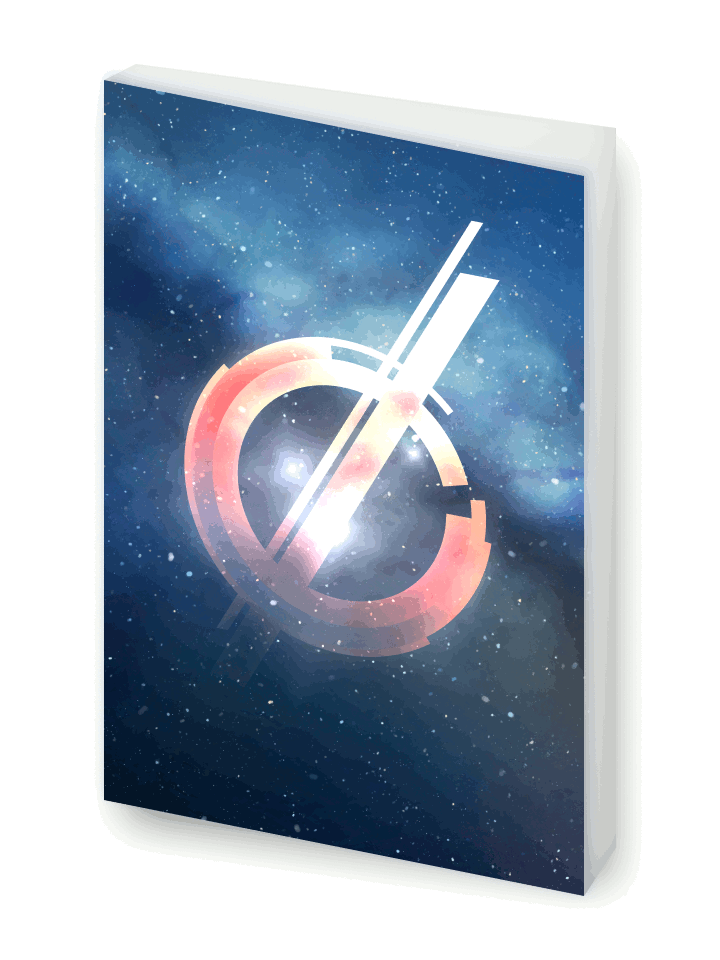
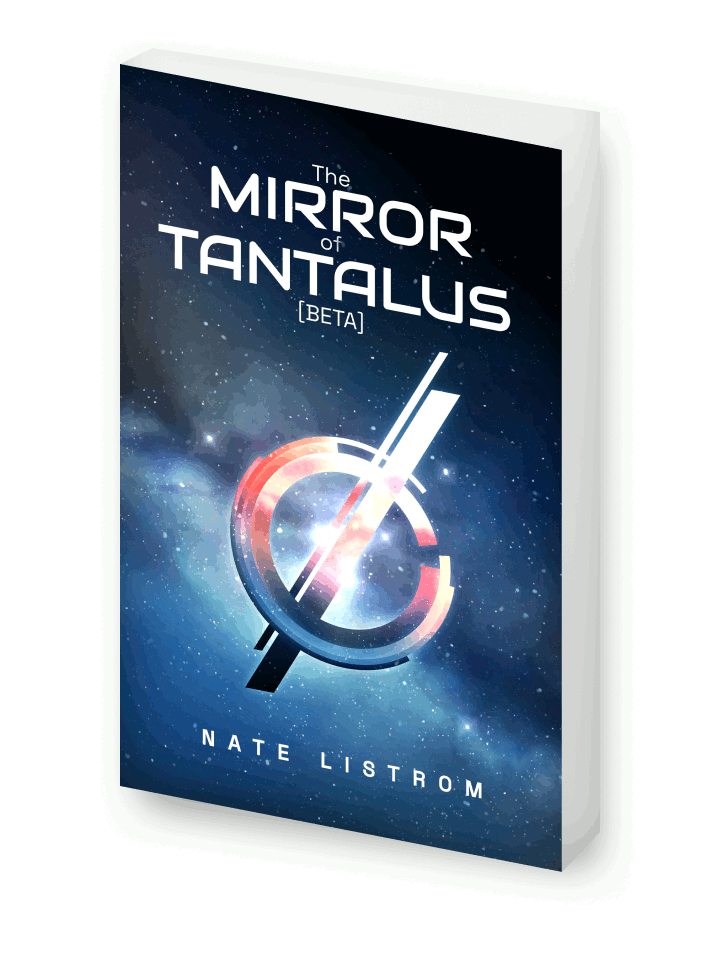
Add first post in Tantalus making of series

diff --git a/_posts/2024-11-05-tantalus-beginnings.md b/_posts/2024-11-05-tantalus-beginnings.md
@@ -1,0 +1,104 @@
+---
+layout: post
+title:  "Beginnings: The making of 'The Mirror of Tantalus' (part one)"
+description: "The story of how I conceived of the premise for my novelette, 'The Mirror of Tantalus' and how connecting with a coworker encouraged me to write the story"
+date:   2024-11-05 12:00:00 -0400
+image:  /assets/img/tantalus-book-cover.png
+tags: [The Mirror of Tantalus, Making of, Story]
+maturity: scribble
+reading_time: 6 min
+---
+
+<img src="/assets/img/tantalus-book-cover.png" alt="a book cover with a background of stars and a shining, geometric figure in the foreground" style="max-width:240px;">
+
+<p class="dropCap">I love listening to artists talk about how they developed their work. You can learn so much from the chronicle of the ups and downs, the false starts and dead-ends, the discoveries made along the way. So, here&rsquo;s the first note in a little <a href="/tag/the+mirror+of+tantalus">&ldquo;making of&rdquo; series</a> about the development of my novelette, <em><a href="/tantalus-mirror">The Mirror of Tantalus</a></em>.</p> 
+
+I hope this window into the process is useful to you, dear reader, as you work on your own projects.
+
+## An idea for an experiment (Dec 2020 - Apr 2023)
+
+_Tantalus_ started in December of 2020 as an idea for an experiment. 
+
+I'd been toying around with K. M. Weiland's claim that [the major beats of a plot mirror one another]({% post_url 2023-01-16-bracketing2 %}#chiasmus-around-the-midpoint) around the midpoint, and I wanted to see if I could demonstrate the theory by building a new story using that structure. 
+
+Normally, the resonance of major plot movements emerges organically and only becomes visible in hindsight. I wanted to flip that process and construct the plot with that resonance in mind from the start.
+
+My core premise was that I wanted the protagonist's own action in the climactic moment to be the thing that spurred her to set out on the journey in the first place. Somehow, she needed to give herself her own [call to adventure]({% post_url 2021-07-23-inciting-incident %}).
+
+<img src="/assets/img/tantalus-making-of-01-inception.png" alt="a screenshot of a note in WorkFlowy from Dec 2020 proposing a 'Tenet'-style palindrome" style="max-width:400px;">
+
+Once that constraint was in place, I knew I was working with a time travel story.
+
+At that point, I had only a vague notion of what the story would be. Mostly, it was just a sense of the feeling I wanted to convey, something having to do with loneliness, perhaps a bit of wistfulness, and an uncanny mystery in which things were happening that defied easy explanation.
+
+Space became the setting for the story almost from its inception. The time dilation effects from Christopher Nolan's _Interstellar_ had fascinated me when I saw the film, and I figured I could use gravity as a sort of pseudo-scientific explanation for the time travel elements in my own story. <sup class="aside">A</sup>
+
+<aside>A. When I began brainstorming <em>Tantalus</em>, I had already seen both <em>Interstellar</em> and <em>Tenet</em>. Although I can&rsquo;t compare my story to those in either scope or quality, I think it would be untrue to say that they had no influence. That said, I never intented my story to play in the same arena. <em>Tantalus</em> was always about doing a storytelling structure experiment. It just happened that those two stories had elements that I could draw from to achieve what I was trying to do.</aside>
+
+In order to connect the protagonist at the climax with her earlier self at the call to adventure, I came up with the notion that she would be sending messages back to her earlier self. In the first half of the story, she would be _discovering_ the messages and then, once she reversed directions, she'd be _writing_ them.
+
+This created some interesting possibilities. I had a picture in my mind of handwritten letters sort of "un-writing" themselves. (The disappearing people in the photos in _Back to The Future_ come to mind.)
+
+Through most of the next two years, the story sat percolating on the back burner. This happens to many of my story ideas. They stay in this mode for a while, marinating. When a thought comes to me, I'll write it down, adding it to an ever-growing pile of notes. Then, eventually, something happens that motivates me to take all those notes and start shaping them into a story.
+
+## First draft (Mar - Apr 2023)
+
+Around March and April of 2023, I blocked out an outline for the major structural beats. I've always been more of a "plotter" than a "pantser." If I don't know where the story is going next, I tend to get bogged down in indecision. For this project, in which I was trying to build a specific structural shape, outlining felt especially appropriate.
+
+<img src="/assets/img/tantalus-making-of-01-outline.png" alt="a screenshot of a bulleted list outline in WorkFlowy with the call to adventure section visible" style="max-width:400px;">
+
+Once I had the shape of the story, I started a first draft. I wrote a lot of the prose directly in [WorkFlowy](https://www.workflowy.com), my go-to outlining and note-taking tool. I already had my story development notes in the tool, and using WorkFlowy allowed me to easily capture, expand and collapse, and move around elements as I was exploring the story and trying to figure out what it was and what it wanted to be.
+
+As I began to write out the draft, I realized I'd created a problem for myself. 
+
+In the two years that the story idea lay dormant in my notes, my concept had been that the protagonist would leave hand-written messages for herself. But as I started to get into seriously considering the story, I realized that wouldn't work. 
+
+It was crucially important that the protagonist never see her reversed self. That would spoil the mystery of the time reversal, and I wanted the protagonist and the audience to only begin to understand what was happening quite late in the story.
+
+How could the protagonist inhabit the same spaces as her forward-facing self and yet not be discovered? I toyed with the idea of making her reversed self invisible, but the science didn't add up. <sup class="aside">B</sup>
+
+<aside>B. I eventually landed on doing nearly the opposite. When the protagonist was reversed, normal light rays would be, from her perspective, moving <em>away</em> from the her eyes rather than toward them. The surprising result of this is that, rather than being invisible to forward-facing people, the reversed protagonist would look totally normal to them (except for moving backward, of course). But since, from her perspective, light rays were moving away from her instead of toward her, she herself would be completely blind. She would only be able to see using sources of light that had been reversed along with her.</aside>
+
+In the end, I arrived on a different solution. Rather than both being in the same spaces, her forward and reversed selves would be in different spatial locations. This could easily be explained by the ship's motion toward Tantalus. Thus, it would never be as though she and her mirrored self were inhabiting the same room, in the same location in space, at the same moment. 
+
+This solved the problem with her seeing herself but it created a new one. If she were in different locations in space, she wouldn't be able to send herself the written messages. 
+
+What she and the others _could_ do was observe the other version of the ship from the outside. That led to the idea of using Morse code, a way for the messages to be sent backward without the crew realizing what was happening until the second half of the story. 
+
+With that, I had something I could work with.
+
+Life got busy, and after I got the rough story down, I put the project on hold.
+
+## A little push to begin (Jan 2024)
+
+_Tantalus_ would probably still be just that set of scribbled notes and a loose rough draft if it were not for a coworker of mine.
+
+One of the many pleasures I have in my job is that I get to research interesting topics and present about them to my coworkers. One of my talks was about storytelling.
+
+After the talk, a few coworkers connected with me. I was expecting them to be interested in the business applications of storytelling, but to my surprise, some wanted to talk about fiction. (I work with a lot of creatives, and many of us have side projects.)
+
+So, this coworker and I met. We talked about our interest in the craft and our various writing projects. She's written more than I have and has even published a couple of [wonderful short stories](https://jilljacmakes.com/writing). I read and quite enjoyed them (and I think you will too).
+
+I came away from the conversation feeling encouraged to get back into fiction writing. Specifically, I wanted to take something far enough to publish, which I hadn't yet done. 
+
+I knew I didn't have time for a new novel-length piece, and I didn't have the confidence to go back and re-work the broken novel that I'd already written. I needed something smaller and more manageable, and my little abandoned draft for _Tantalus_ seemed like a good place to start . . .
+
+I'll leave things here for now. In the next note, we'll look at the drafting phase.
+
+Onward!
+
+---
+
+## You (yes, you!) can help
+
+The thing I need most right now is feedback on the story. What's working and what still could be better? I'd love your opinion.
+
+**First, [read _The Mirror of Tantalus_ &rarr;](/tantalus-mirror)**  
+<small>Time commitment: about 2hr</small>
+
+<p><a href="/tantalus-mirror"><img src="/assets/img/tantalus-book-cover.png" alt="a book cover with a background of stars and a shining, geometric figure in the foreground" width="84px" height="112px" style="float: left; padding-right: 1rem;" /></a> When a strange interstellar object enters Earth&rsquo;s system, Charis Samogost joins an unlikely alliance of nations sent to investigate. As they draw nearer to their goal, loyalties are tested, and Charis must decide what&rsquo;s most important to her &mdash; and what she&rsquo;s willing to do to get it.</p>
+
+**After that, [fill out a brief feedback form &rarr;](https://forms.gle/tftkD89pmyvv5SSu5)**  
+<small>Time commitment: about 5min</small>
+
+And thank you for being here and catching up with my little journey.

diff --git a/tag/the+mirror+of+tantalus.md b/tag/the+mirror+of+tantalus.md
@@ -1,0 +1,5 @@
+---
+layout: tags
+title: "Tag: The Mirror of Tantalus"
+tag: The Mirror of Tantalus
+---

diff --git a/tag/making+of.md b/tag/making+of.md
@@ -1,0 +1,5 @@
+---
+layout: tags
+title: "Tag: Making of"
+tag: Making of
+---
